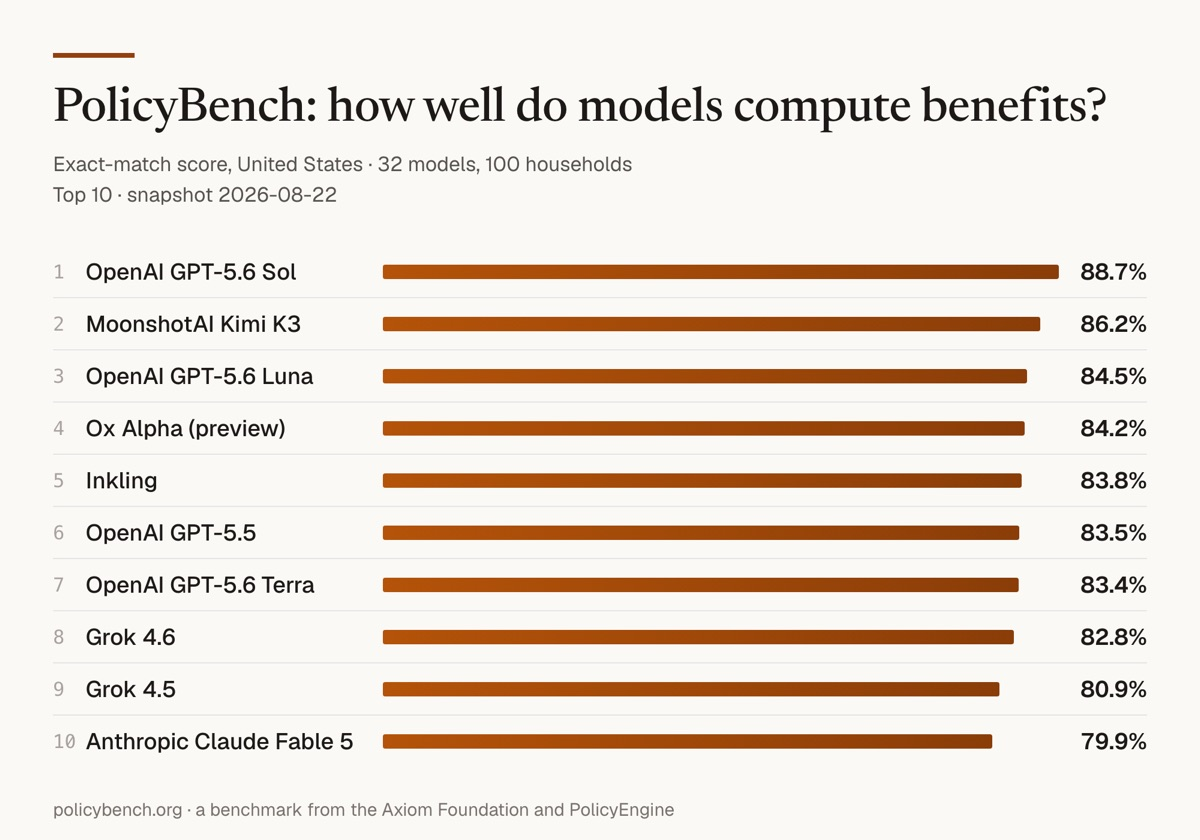
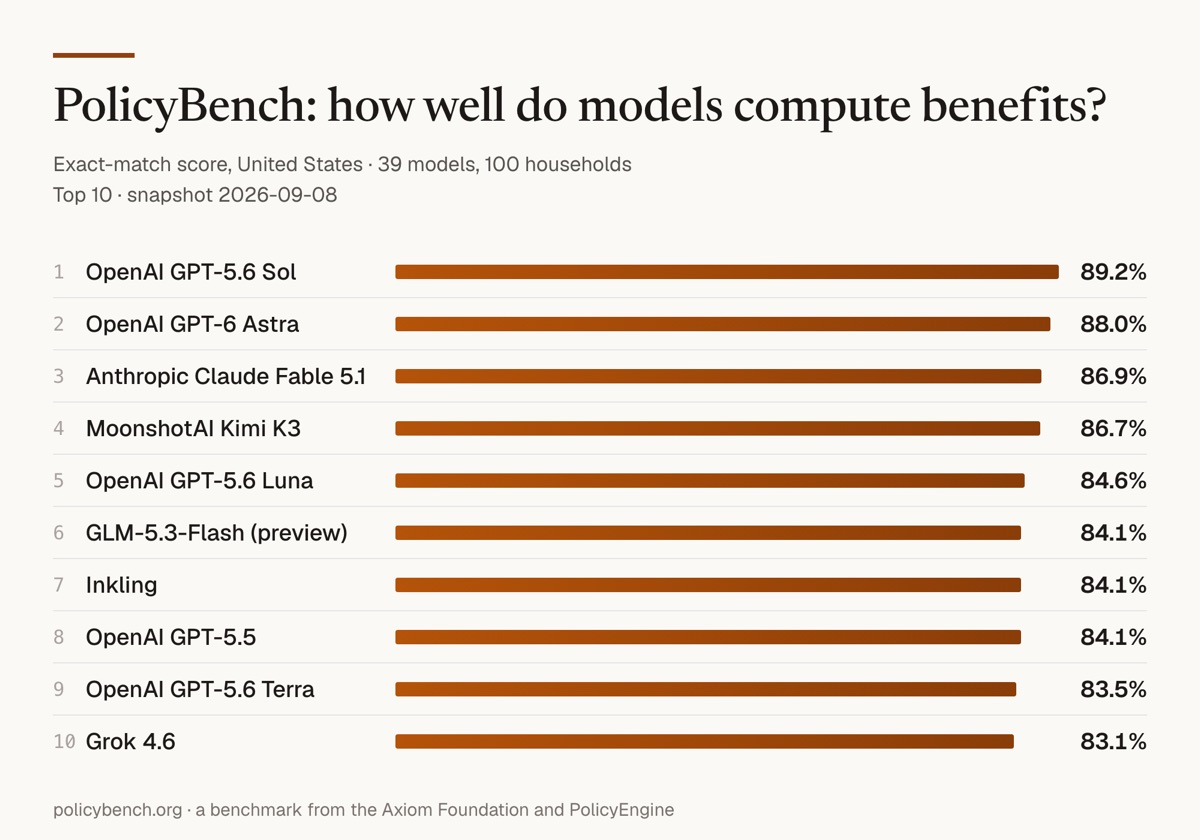
Refresh the PolicyBench snapshot to September 8
The board moved substantially in ten days: 32 models to 39, and three
new entrants in the top ten -- GPT-6 Astra at #2, Claude Fable 5.1 at
#3, GLM-5.3-Flash at #6.

Two numbers in the copy move with it. The field is tighter, so the
top-ten spread goes from under nine points to just over six (89.2 down
to 83.1). "One household in nine wrong" survives unchanged: the leader
is at 89.2%, so it still misses about 11%.

Alt text carries the new scores, and the re-run flag comes out.

Also drops the editorial sentence from the GETTSIM bullet, per AK.

diff --git a/editions/2026-09-10.html b/editions/2026-09-10.html
@@ -81,10 +81,9 @@
                                             Benchmark snapshot
                                         </div>
                                         <div style="font-size: 17px; font-weight: 700; color: #1c1917; line-height: 1.4; letter-spacing: -0.01em; margin-bottom: 12px;"><a href="https://policybench.org/" style="color: #1c1917; text-decoration: none;">PolicyBench: where the top models stand</a></div>
-                                        <div style="display: inline-block; font-family: 'Geist Mono','SFMono-Regular',Menlo,Consolas,monospace; font-size: 10px; font-weight: 600; letter-spacing: 0.05em; text-transform: uppercase; color: #991b1b; background: #fdf3f0; border: 1px dashed #991b1b; border-radius: 3px; padding: 2px 6px; margin-bottom: 12px;">Re-run policybench.mjs on Sep 9 and re-upload &mdash; the board is versioned and re-run</div>
-                                        <a href="https://policybench.org/" style="text-decoration: none;"><img src="https://raw.githubusercontent.com/TheAxiomFoundation/newsletters/main/assets/images/2026-09-10-policybench-leaderboard.jpg" alt="PolicyBench leaderboard, top 10 of 32 models by exact-match score on United States household tax and benefit calculations, snapshot August 22 2026. OpenAI GPT-5.6 Sol leads at 88.7 percent, MoonshotAI Kimi K3 86.2, OpenAI GPT-5.6 Luna 84.5, Ox Alpha preview 84.2, Inkling 83.8, down to Anthropic Claude Fable 5 at 79.9 percent." width="512" style="width: 100%; max-width: 512px; height: auto; display: block; border-radius: 4px; border: 1px solid #e7e5e4;"></a>
+                                        <a href="https://policybench.org/" style="text-decoration: none;"><img src="https://raw.githubusercontent.com/TheAxiomFoundation/newsletters/main/assets/images/2026-09-10-policybench-leaderboard.jpg" alt="PolicyBench leaderboard, top 10 of 39 models by exact-match score on United States household tax and benefit calculations, snapshot September 8 2026. OpenAI GPT-5.6 Sol leads at 89.2 percent, GPT-6 Astra 88.0, Claude Fable 5.1 86.9, Kimi K3 86.7, down to Grok 4.6 at 83.1 percent." width="512" style="width: 100%; max-width: 512px; height: auto; display: block; border-radius: 4px; border: 1px solid #e7e5e4;"></a>
                                         <div style="font-size: 14px; line-height: 1.6; color: #44403c; padding-top: 12px;">
-                                            PolicyBench is an open benchmark from the Axiom Foundation and PolicyEngine, scoring 32 models on United States household tax and benefit calculations. The best model still gets about one household in nine wrong, and the spread across the top ten is under nine points. <a href="https://policybench.org/" style="color: #b45309; text-decoration: none;">See the full board &rarr;</a>
+                                            PolicyBench is an open benchmark from the Axiom Foundation and PolicyEngine, scoring 39 models on United States household tax and benefit calculations. The best model still gets about one household in nine wrong, and the spread across the top ten is just over six points. <a href="https://policybench.org/" style="color: #b45309; text-decoration: none;">See the full board &rarr;</a>
                                         </div>
                                     </td>
                                 </tr>
@@ -111,7 +110,7 @@
                             <table width="100%" cellpadding="0" cellspacing="0" style="margin: 4px 0 12px 0;">
                                 <tr><td valign="top" style="width: 16px; padding: 0 0 12px 0; color: #b45309; font-size: 15px; line-height: 1.65;">&bull;</td><td style="padding: 0 0 12px 0; font-size: 15px; line-height: 1.65; color: #44403c;"><strong style="color: #1c1917;">IARIW, Brussels, August 24&ndash;28.</strong> Max presented and ran a workshop at the 39th General Conference of the International Association for Research in Income and Wealth. <span style="display: inline-block; font-family: 'Geist Mono','SFMono-Regular',Menlo,Consolas,monospace; font-size: 10px; font-weight: 600; letter-spacing: 0.05em; text-transform: uppercase; color: #991b1b; background: #fdf3f0; border: 1px dashed #991b1b; border-radius: 3px; padding: 2px 6px;">MG: a sentence and the slide links</span></td></tr>
                                 <tr><td valign="top" style="width: 16px; padding: 0 0 12px 0; color: #b45309; font-size: 15px; line-height: 1.65;">&bull;</td><td style="padding: 0 0 12px 0; font-size: 15px; line-height: 1.65; color: #44403c;"><strong style="color: #1c1917;">Policy2Code at the Digital Government Society&rsquo;s <a href="https://dgsociety.org/egov-2026/" style="color: #b45309; text-decoration: none;">EGOV 2026</a>, Athens.</strong> A paper on whether AI can speed up translating SNAP and Medicaid policy into code &mdash; Georgetown Massive Data Institute and Beeck Center work that Ariel co-authored before the Axiom Foundation existed, and a direct ancestor of what we build now. The <a href="https://policy2code.georgetown.domains/methodology/" style="color: #b45309; text-decoration: none;">three-stage methodology</a> is published. <span style="display: inline-block; font-family: 'Geist Mono','SFMono-Regular',Menlo,Consolas,monospace; font-size: 10px; font-weight: 600; letter-spacing: 0.05em; text-transform: uppercase; color: #991b1b; background: #fdf3f0; border: 1px dashed #991b1b; border-radius: 3px; padding: 2px 6px;">Confirm: is the paper live, and did Kenny present?</span></td></tr>
-                                <tr><td valign="top" style="width: 16px; padding: 0 0 12px 0; color: #b45309; font-size: 15px; line-height: 1.65;">&bull;</td><td style="padding: 0 0 12px 0; font-size: 15px; line-height: 1.65; color: #44403c;"><strong style="color: #1c1917;"><a href="https://www.econ.uni-bonn.de/iame/en/gettsim" style="color: #b45309; text-decoration: none;">GETTSIM Workshop</a>, Bonn, September 3&ndash;4.</strong> Pavel presented at the University of Bonn workshop on GETTSIM, the open-source Python model of the German tax and transfer system. It is the closest thing in Europe to the work we do, and the room is researchers and practitioners who maintain it. <span style="display: inline-block; font-family: 'Geist Mono','SFMono-Regular',Menlo,Consolas,monospace; font-size: 10px; font-weight: 600; letter-spacing: 0.05em; text-transform: uppercase; color: #991b1b; background: #fdf3f0; border: 1px dashed #991b1b; border-radius: 3px; padding: 2px 6px;">PM: talk title and slides &mdash; and confirm it ran</span></td></tr>
+                                <tr><td valign="top" style="width: 16px; padding: 0 0 12px 0; color: #b45309; font-size: 15px; line-height: 1.65;">&bull;</td><td style="padding: 0 0 12px 0; font-size: 15px; line-height: 1.65; color: #44403c;"><strong style="color: #1c1917;"><a href="https://www.econ.uni-bonn.de/iame/en/gettsim" style="color: #b45309; text-decoration: none;">GETTSIM Workshop</a>, Bonn, September 3&ndash;4.</strong> Pavel presented at the University of Bonn workshop on GETTSIM, the open-source Python model of the German tax and transfer system. <span style="display: inline-block; font-family: 'Geist Mono','SFMono-Regular',Menlo,Consolas,monospace; font-size: 10px; font-weight: 600; letter-spacing: 0.05em; text-transform: uppercase; color: #991b1b; background: #fdf3f0; border: 1px dashed #991b1b; border-radius: 3px; padding: 2px 6px;">PM: talk title and slides &mdash; and confirm it ran</span></td></tr>
                                 </table>
 
                             <div style="font-family: 'Geist Mono','SFMono-Regular',Menlo,Consolas,monospace; font-size: 10px; letter-spacing: 0.09em; text-transform: uppercase; color: #a8a29e; margin: 22px 0 10px 0;">Upcoming</div>
